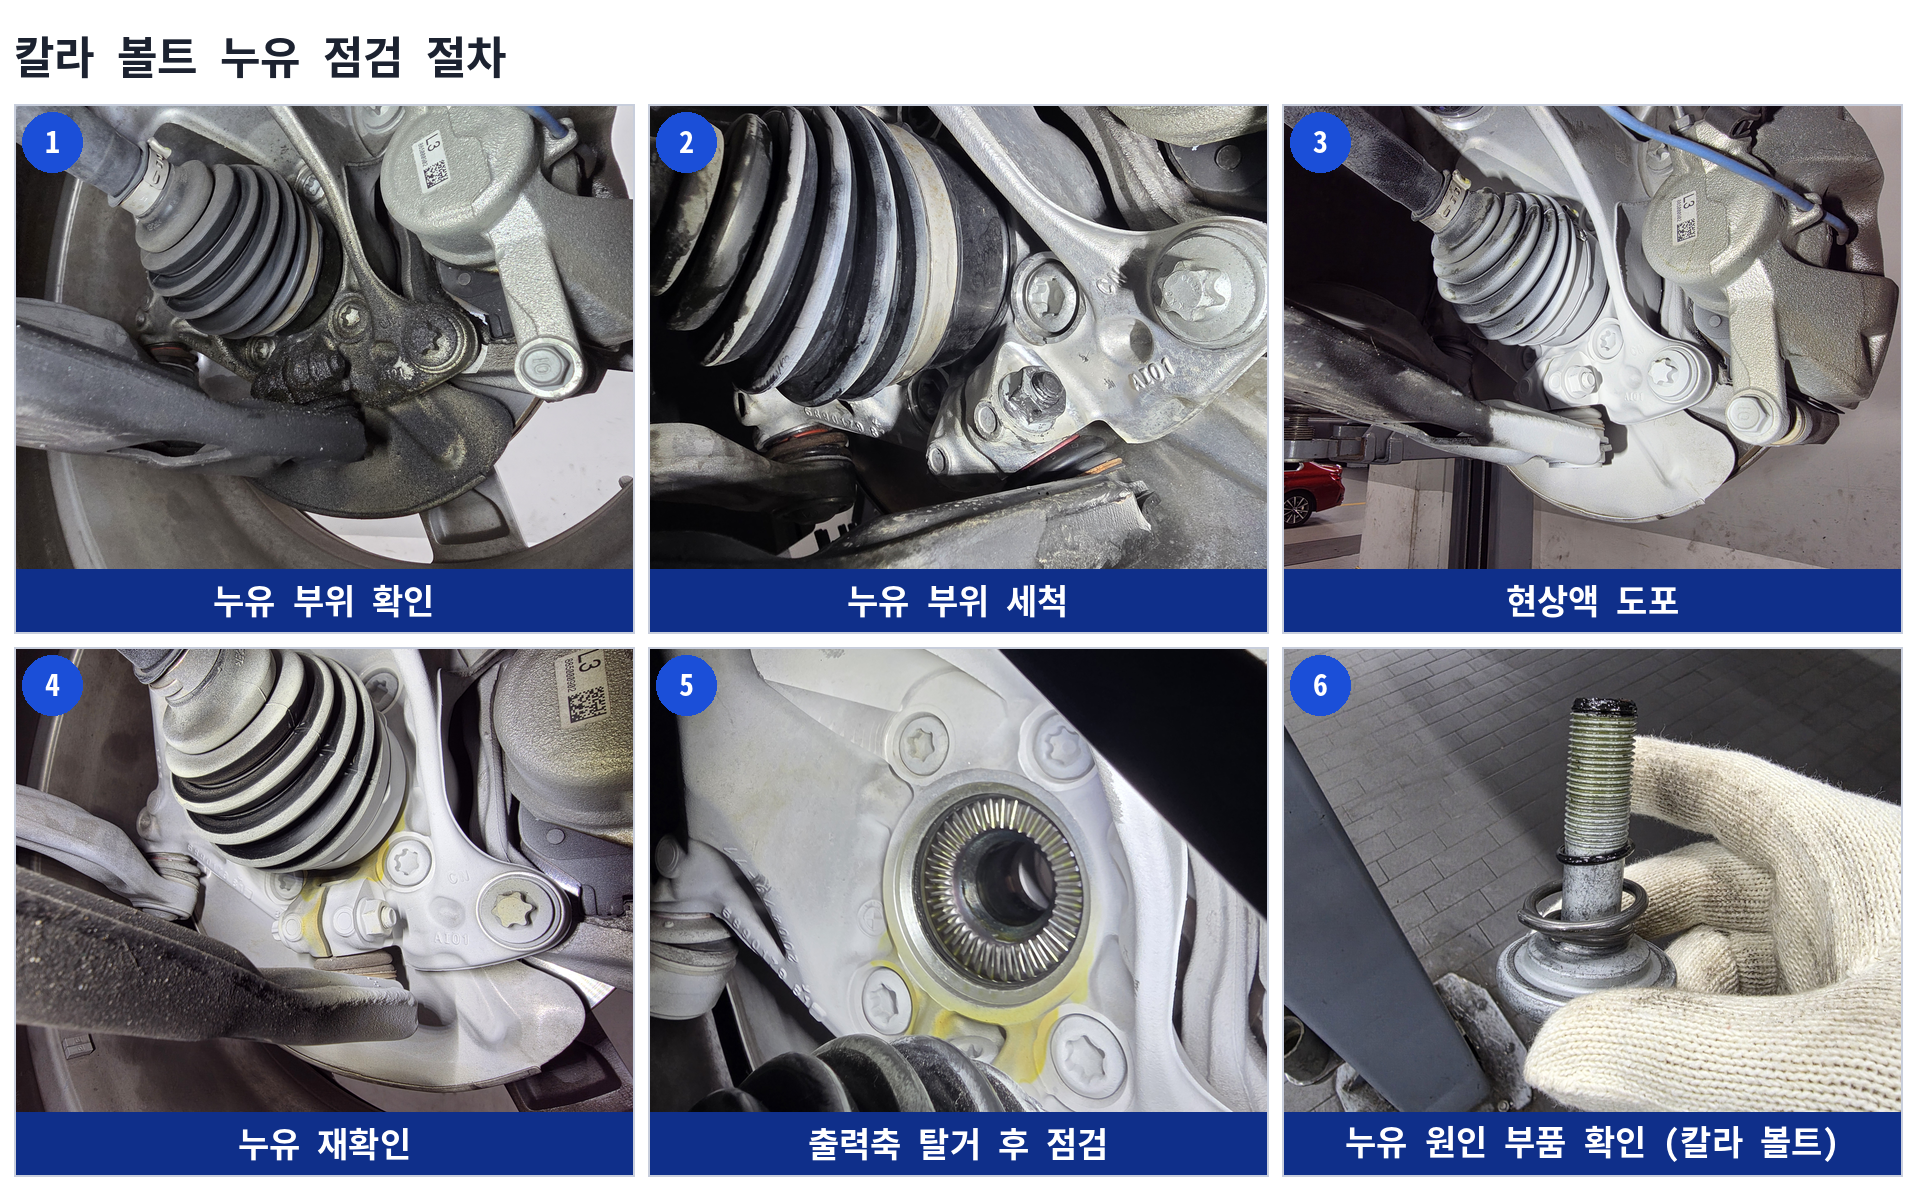
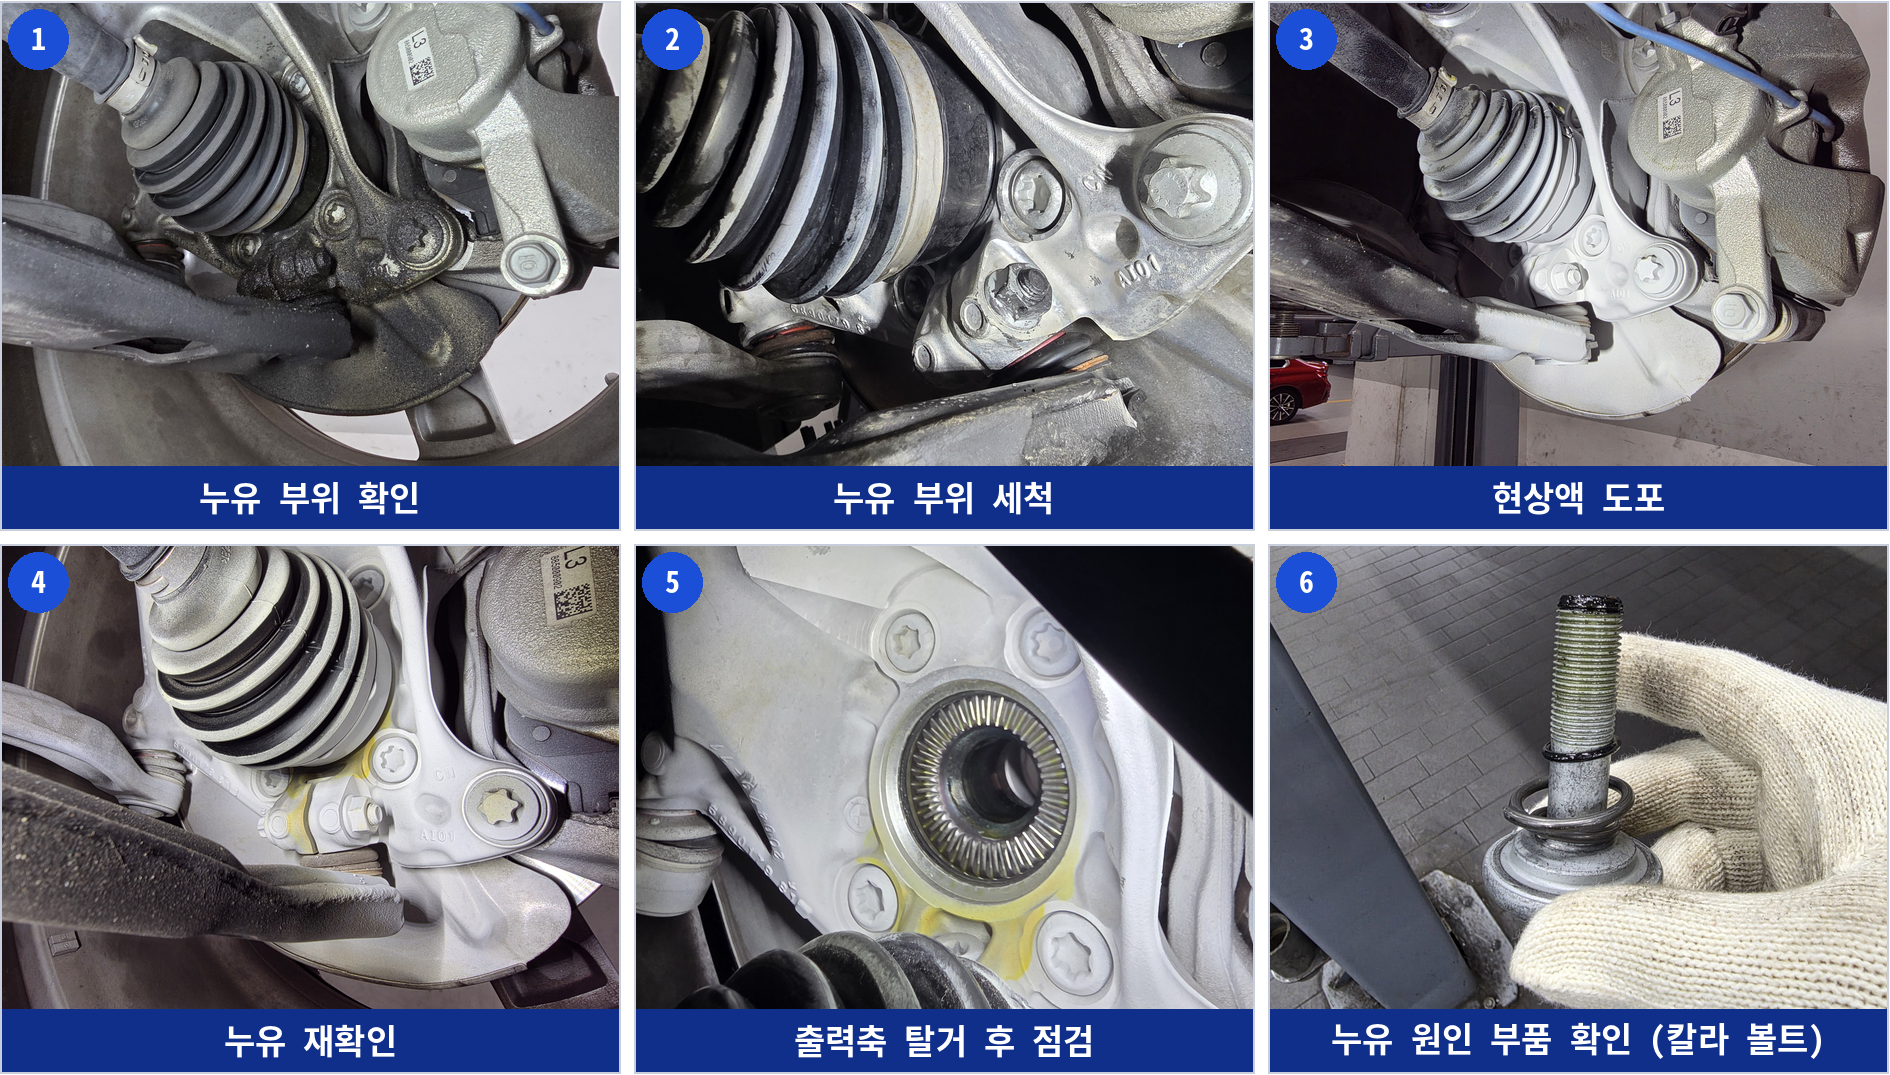
Add files via upload

diff --git a/index.html b/index.html
@@ -257,11 +257,12 @@ main{
 }
 .case-body .content-block .action-image{
   display:block;
-  width:100%;
+  width:calc(100% + 48px);
+  max-width:calc(100% + 48px);
   height:auto;
-  margin-top:12px;
-  border-radius:var(--radius);
-  border:1px solid var(--line);
+  margin:12px -24px 0;
+  border:none;
+  border-radius:0;
 }
 </style>
 </head>
